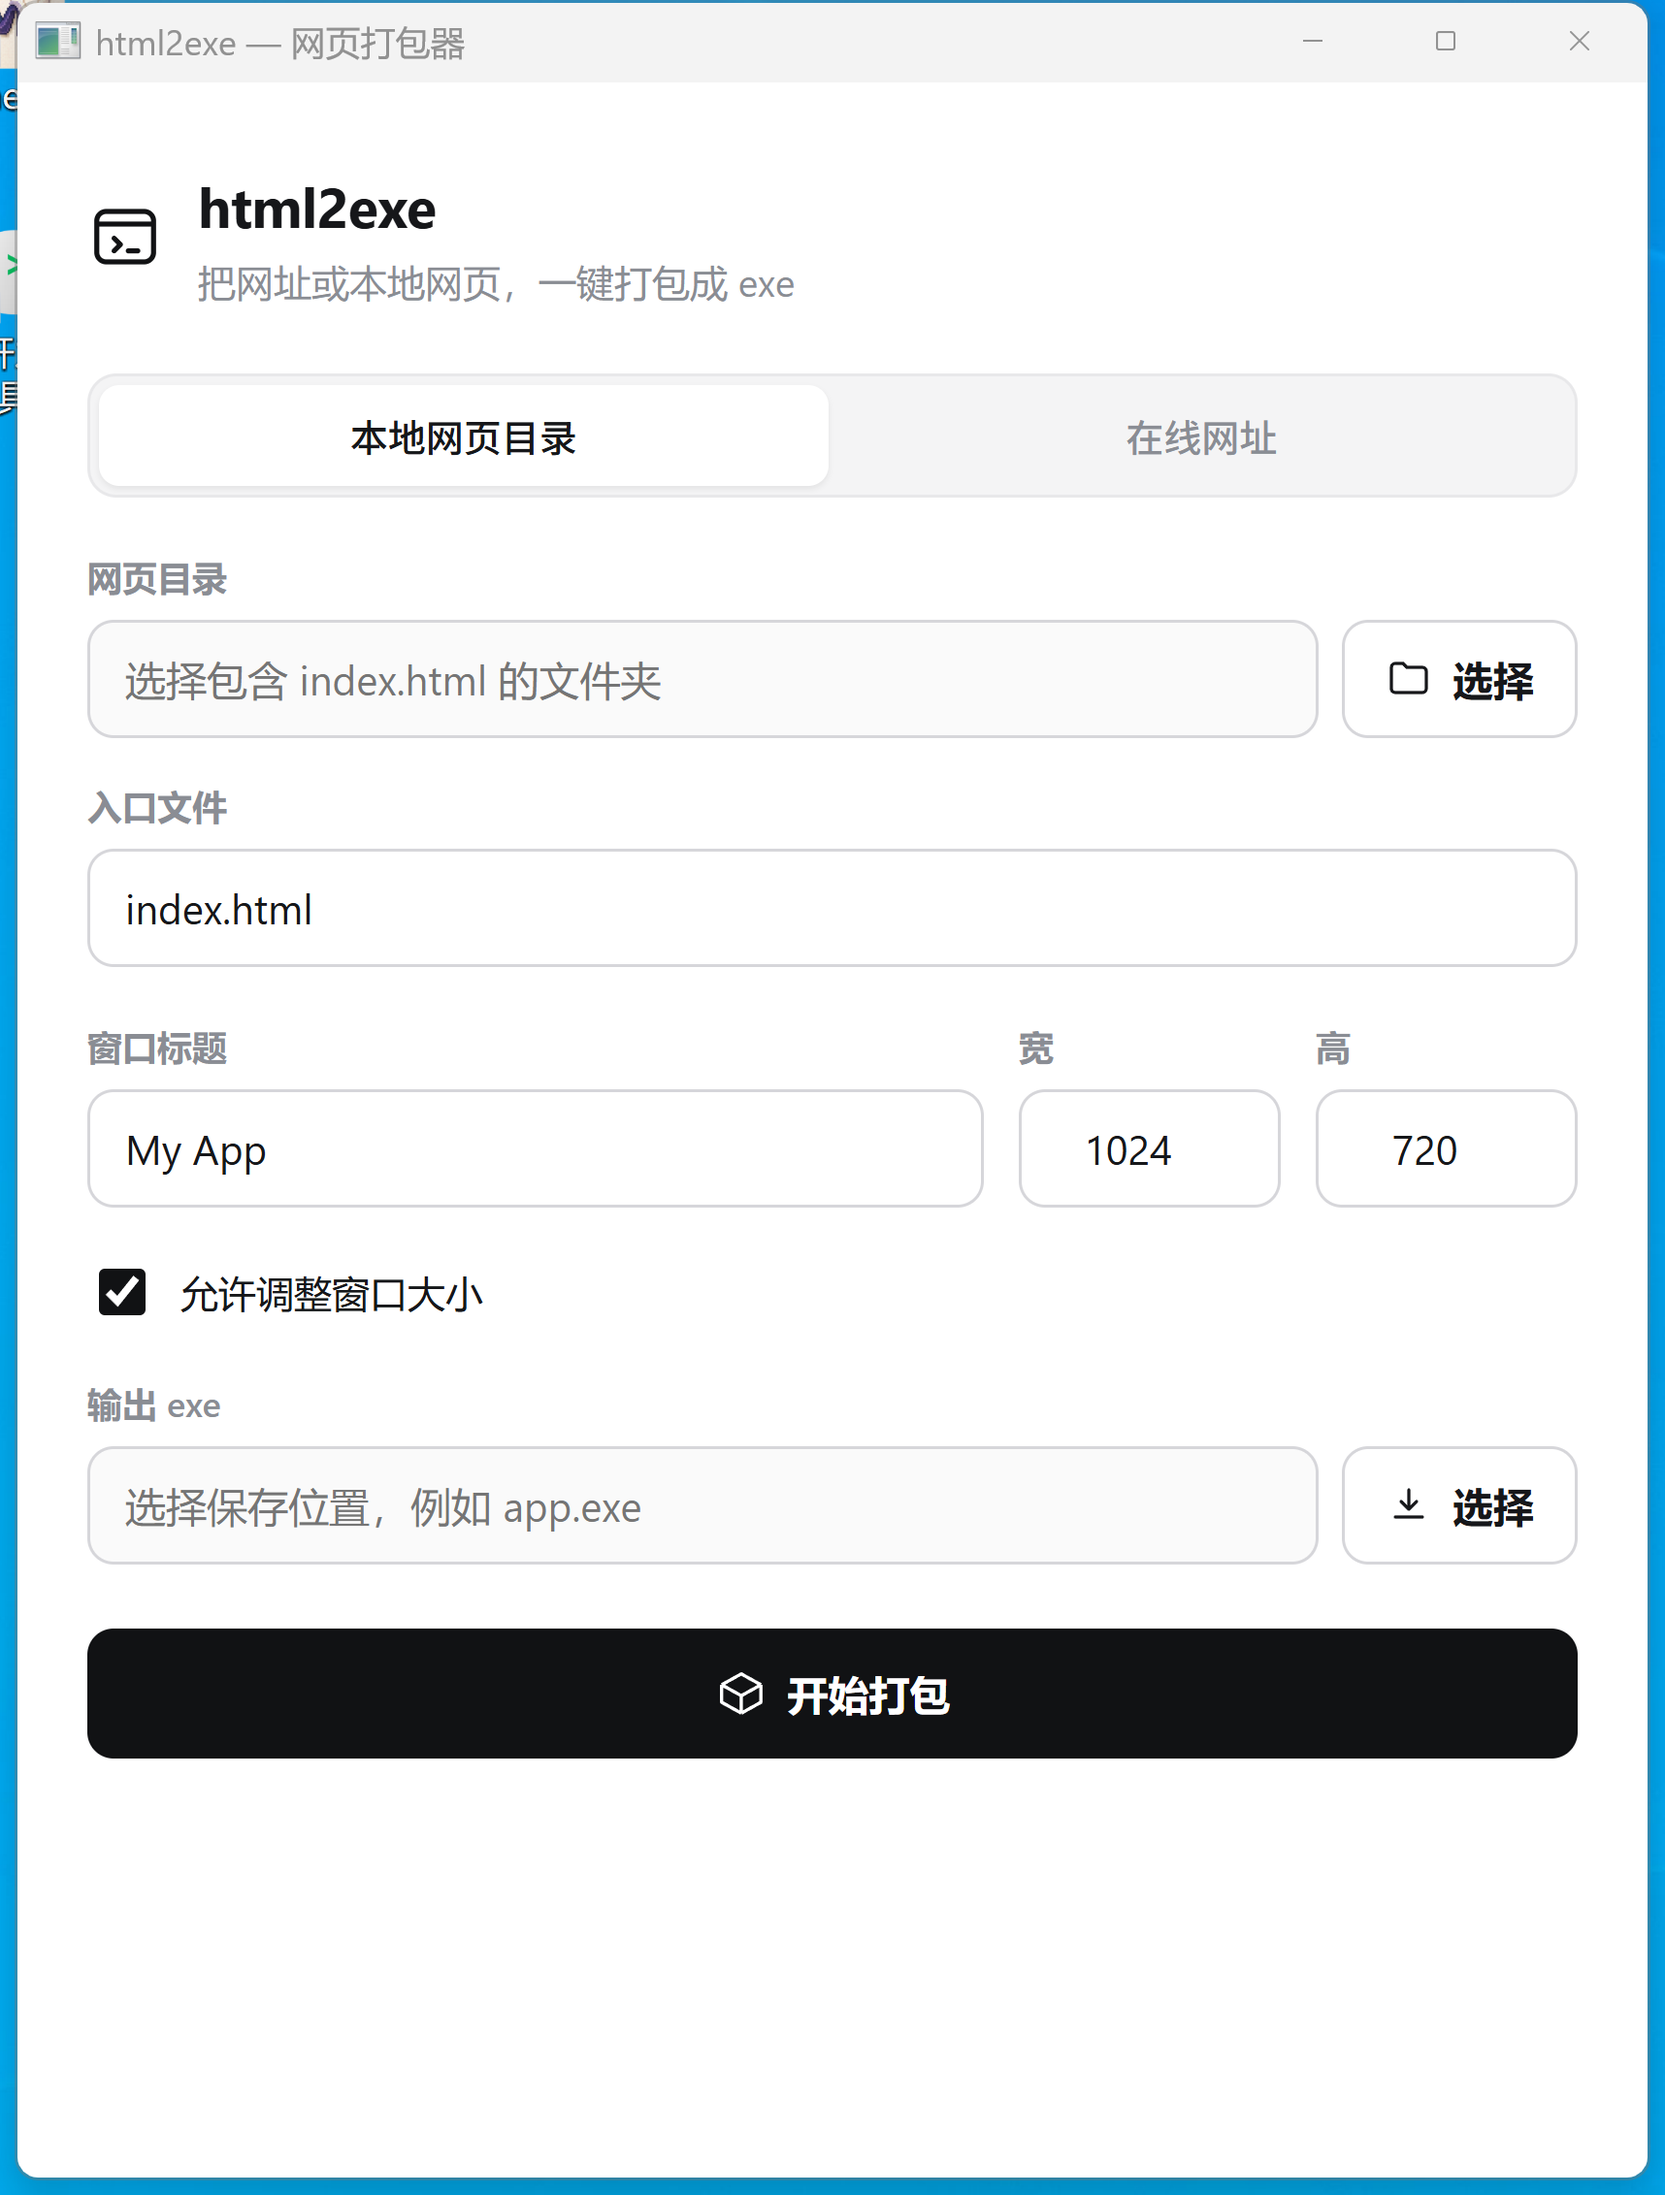
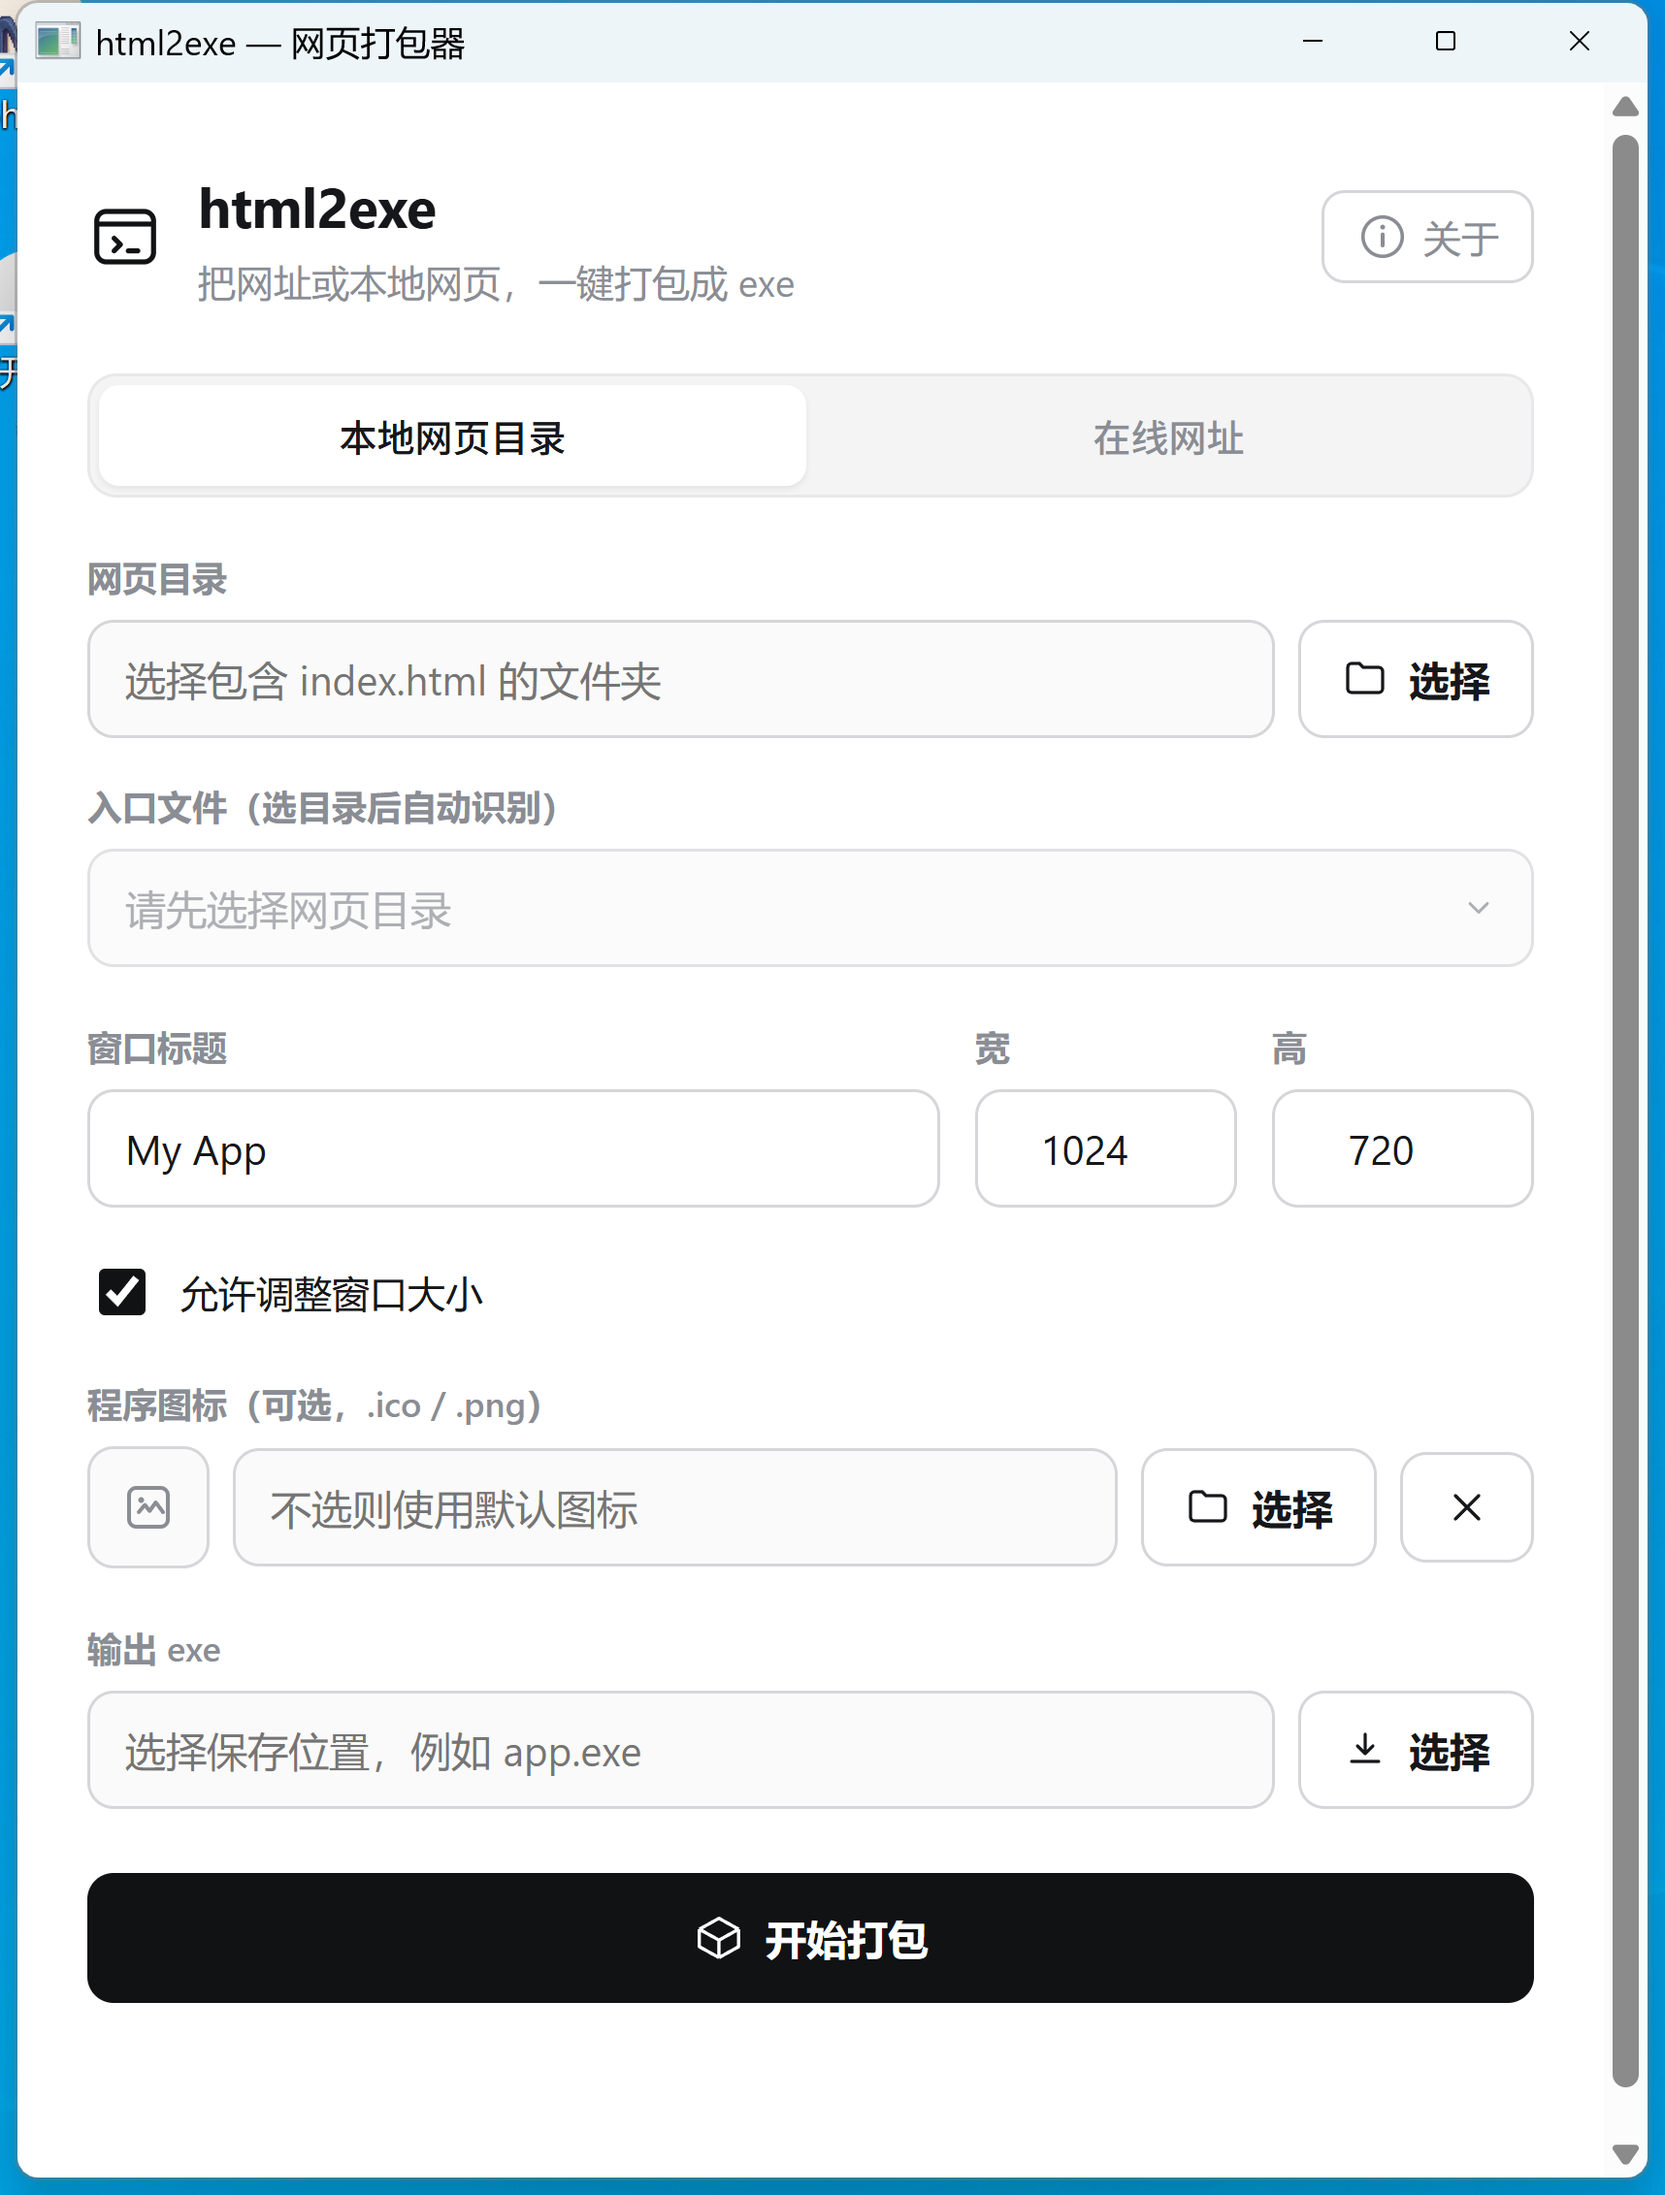
docs: 完善 README（新增功能说明 + 更新界面截图）
- 特点补充：自动识别入口、自定义图标
- 使用步骤更新：入口自动识别、可选图标、关于页
- CLI 参数补充图标；技术栈补充 editpe/ico/png/winresource
- 更新界面截图为最新 GUI

diff --git a/README.md b/README.md
@@ -15,17 +15,22 @@
 - **秒级出包**：不编译、不联网。选好点一下，一秒钟生成 exe。
 - **零工具链**：使用者不用装 Rust / Node；产物在别人电脑上也只依赖系统自带的 WebView2（Win10/11 通常已内置）。
 - **双模式**：**在线网址** 和 **本地网页目录** 都支持，本地项目完全离线自包含。
+- **自动识别入口**：选好本地目录，自动扫描出网页入口（优先 `index.html`），多个可下拉切换，不用手打路径。
+- **自定义图标**：可给产物 exe 换成自己的 `.png` / `.ico`（自动转换、生成多分辨率），支持索引色等各类 PNG。
 - **图形界面**：现代极简白，专为不懂命令行的人设计。
 
 ## 使用方法（图形界面）
 
 1. 下载并运行 `html2exe.exe`。
 2. 选择模式：
-   - **本地网页目录** —— 选一个包含 `index.html` 的文件夹（可自定义入口文件名）。
+   - **本地网页目录** —— 选一个包含网页的文件夹；**入口文件会自动识别**（多个时可下拉切换）。
    - **在线网址** —— 填一个 `https://` 开头的网址。
 3. 填窗口标题、宽高，勾选是否允许调整窗口大小。
-4. 选择输出位置（`xxx.exe`），点 **开始打包**。
-5. 双击生成的 exe 即可运行。
+4. *(可选)* 选一个 `.png` / `.ico` 作为产物的**程序图标**（不选则用默认图标）。
+5. 选择输出位置（`xxx.exe`），点 **开始打包**。
+6. 双击生成的 exe 即可运行。
+
+> 点击右上角「关于」可查看作者信息与公众号。
 
 ## 相对 Pake 的差异
 
@@ -43,8 +48,8 @@
 同一个 exe 也内置了隐藏 CLI，方便脚本化：
 
 ```bash
-html2exe pack-local <网页目录> <输出.exe> [入口文件=index.html]
-html2exe pack-url   <网址>     <输出.exe>
+html2exe pack-local <网页目录> <输出.exe> [入口=index.html] [图标.ico/.png]
+html2exe pack-url   <网址>     <输出.exe> [图标.ico/.png]
 ```
 
 ## 工作原理
@@ -62,7 +67,8 @@ html2exe pack-url   <网址>     <输出.exe>
 ## 技术栈
 
 - [wry](https://github.com/tauri-apps/wry) + [tao](https://github.com/tauri-apps/tao) —— 系统 WebView2
-- Rust，`zip` / `rfd` / `serde`
+- Rust，`zip`（资源打包）/ `rfd`（原生对话框）/ `serde`
+- `editpe` + `ico` + `png`（产物图标写入 / PNG→ICO）/ `winresource`（打包器自身图标）
 
 ## 从源码构建
 
